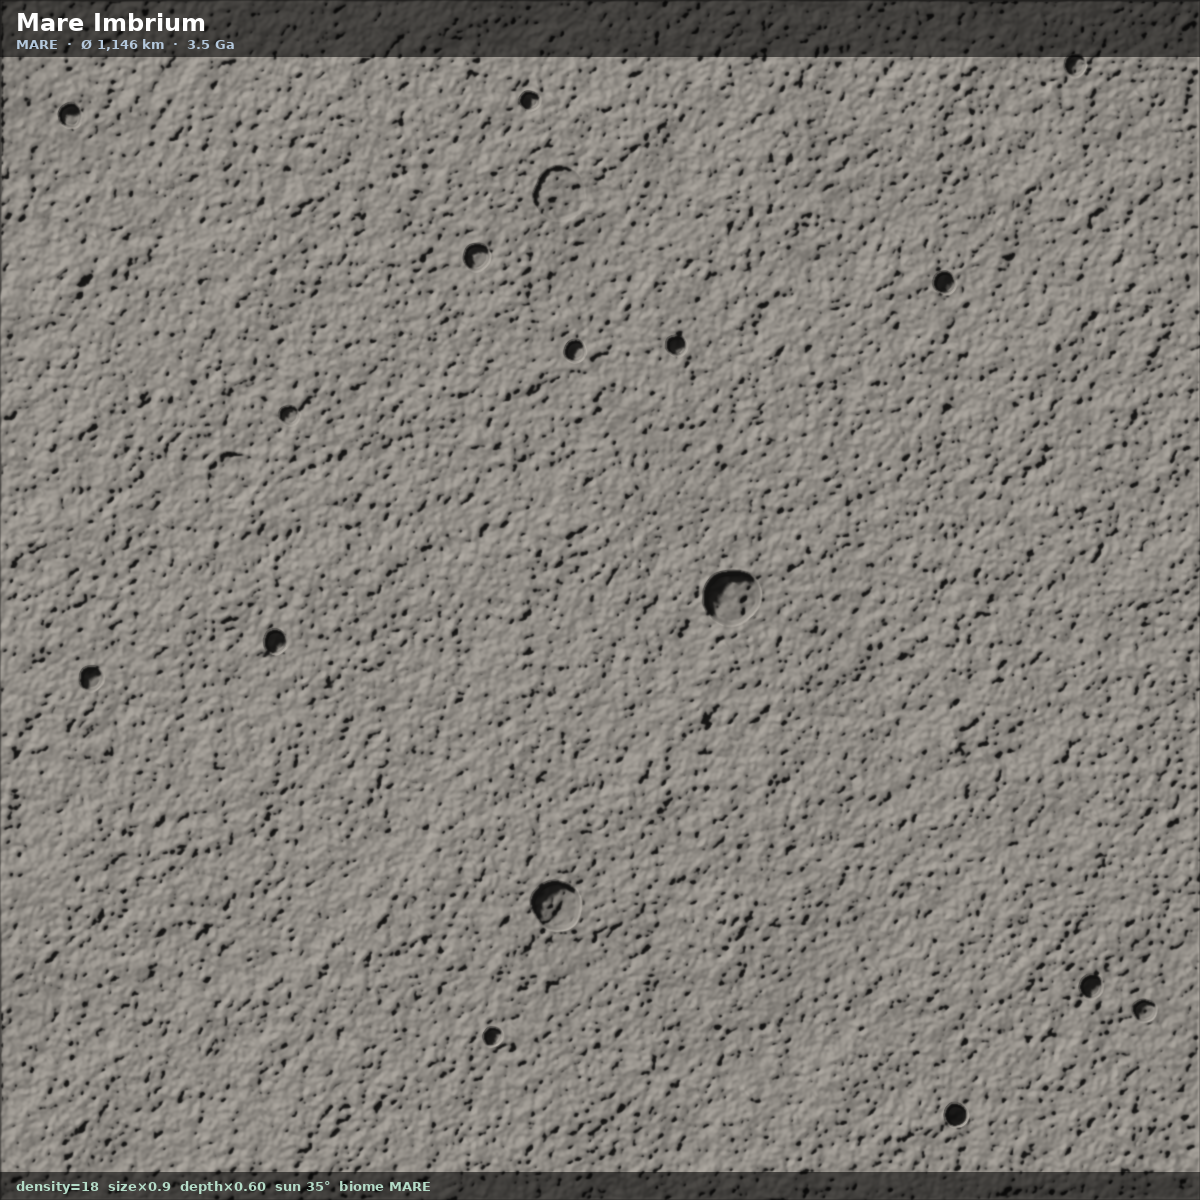
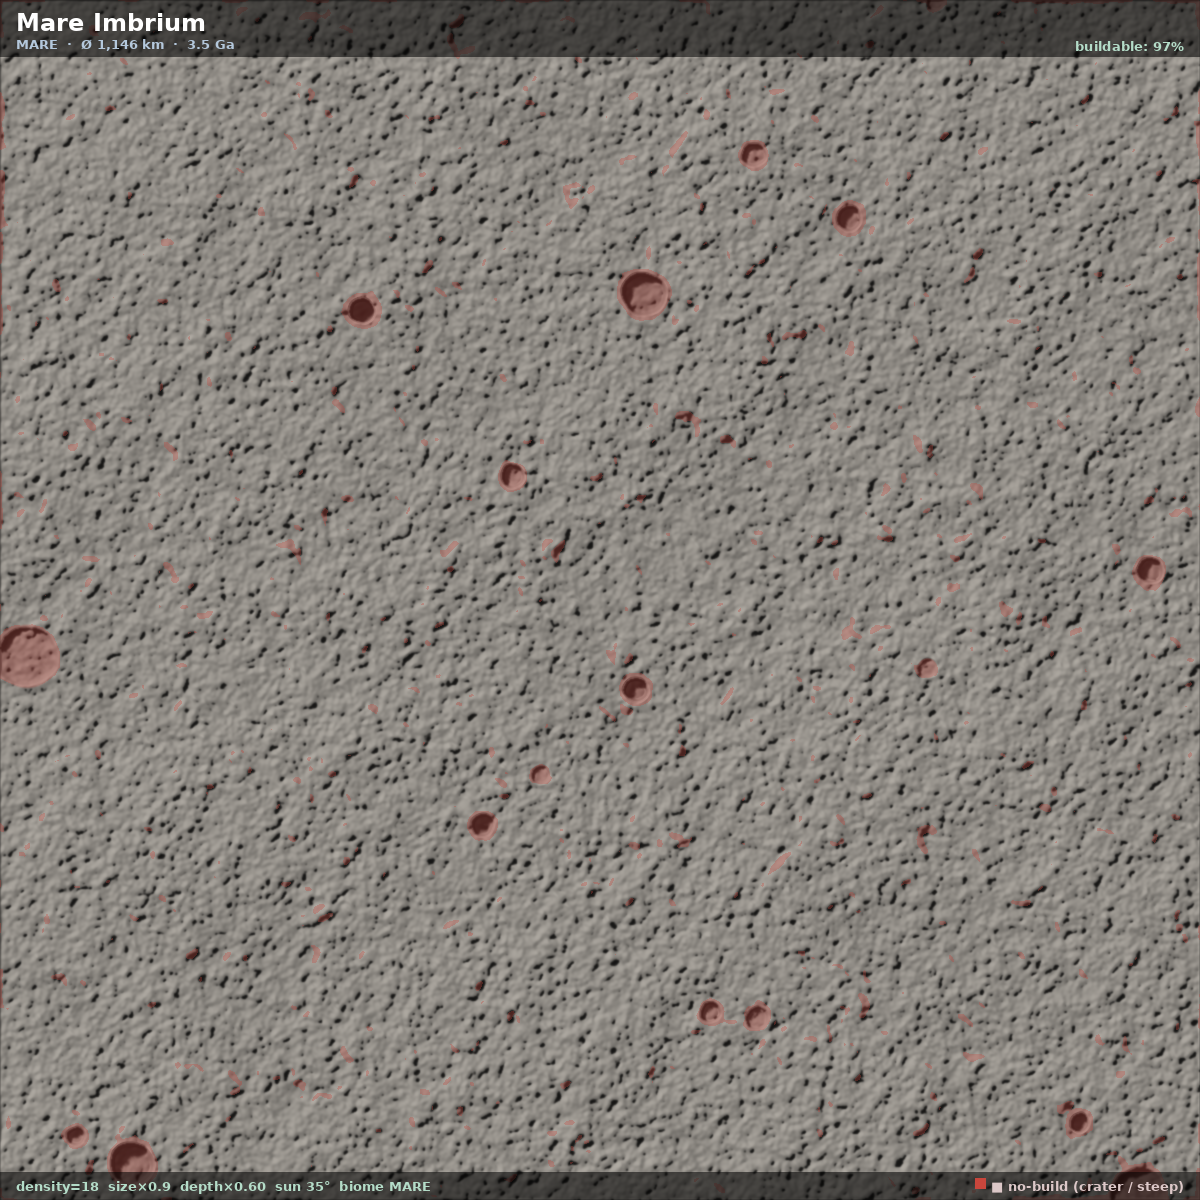
phase B+: buildability mask (no building in craters)
User constraint: lunar bases can't be placed inside crater interiors.

Adds buildability_mask() to regional_view.py:

  * Crater interior exclusion: any pixel within rim_factor=1.05 × r
    of any crater is unbuildable. Soft 10% falloff at the rim so
    the boundary isn't a hard step.
  * Slope cutoff: the heightmap is Gaussian-blurred (sigma=3.5) to
    measure terrain-scale slope, then any slope > 18° is unbuildable.
    Pre-blur is critical — without it the pink-noise micro-texture
    fires the slope check on nearly every pixel and the entire
    region reads as forbidden.

Visual integration in render_regional_view:
  * overlay_unbuildable() blends a 30% warm-red tint on forbidden
    pixels — player sees at a glance where they can't build.
  * save_mask_png() exports a 1-channel grayscale PNG sibling
    (regional_<slug>_buildable.png) — the C++ side loads this as a
    texture and samples it at sect-placement time.
  * Title bar reports the buildable percentage of the region.
  * Bottom-right legend explains the red overlay.

Visible in regional_compare.png:
  * Tycho / Copernicus: ~80% buildable — central crater + small
    surrounding craters all flagged red, plain between them OK.
  * Mare Imbrium / Apollo 11: 95%+ buildable — only the few
    scattered small craters are red.
  * Shackleton: similar but with POLAR tint (very low sun) so the
    mask reads against a dark surface.
  * SPA basin: lots of small craters → noticeable red speckle.
[…]

diff --git a/prototypes/planet_visuals/regional_view.py b/prototypes/planet_visuals/regional_view.py
@@ -197,8 +197,79 @@ def params_for_zone(zone: ZoneInfo) -> RegionalParams:
 
 
 # ===========================================================================
-# Renderer
+# Buildability mask
 # ===========================================================================
+
+def buildability_mask(heightmap: np.ndarray, craters,
+                       crater_rim_factor: float = 1.05,
+                       slope_threshold_deg: float = 18.0,
+                       z_factor: float = 75.0) -> np.ndarray:
+    """1.0 = buildable, 0.0 = forbidden.
+
+    Two rules:
+      1. Inside any crater's rim (distance < `crater_rim_factor * r`)
+         is unbuildable — bowl walls + debris + sometimes permanent
+         shadow.
+      2. Anywhere the local slope exceeds `slope_threshold_deg` is
+         unbuildable — too steep for surface infrastructure. Catches
+         small unlisted craters AND any FBM-induced ridges.
+    """
+    h, w = heightmap.shape
+    mask = np.ones((h, w), dtype=np.float32)
+
+    # 1. Crater rim exclusion — vectorized per crater on a tight bbox.
+    for c in craters:
+        # bbox extends slightly past the rim for the soft falloff
+        margin = c.r * crater_rim_factor
+        x0 = max(0, int(c.cx - margin))
+        x1 = min(w, int(c.cx + margin) + 1)
+        y0 = max(0, int(c.cy - margin))
+        y1 = min(h, int(c.cy + margin) + 1)
+        yy, xx = np.mgrid[y0:y1, x0:x1].astype(np.float32)
+        d = np.sqrt((xx - c.cx) ** 2 + (yy - c.cy) ** 2)
+        # Soft inner-edge: already 1.0 outside the rim, taper to 0
+        # over the last 5% of radius.
+        inside = d < c.r * crater_rim_factor
+        # Smoothstep falloff from rim to interior over ~10% of r
+        falloff_band = max(2.0, c.r * 0.10)
+        t = np.clip((c.r * crater_rim_factor - d) / falloff_band, 0.0, 1.0)
+        local = 1.0 - t * t * (3.0 - 2.0 * t)   # smoothstep
+        mask[y0:y1, x0:x1] = np.minimum(mask[y0:y1, x0:x1],
+                                         np.where(inside, local, 1.0))
+
+    # 2. Slope cutoff — applied to a smoothed heightmap so the
+    #    pink-noise texture (sub-meter regolith roughness) doesn't
+    #    flag every pixel as steep. We want terrain-scale slopes,
+    #    not micro-texture.
+    smoothed = gaussian_blur(heightmap, 3.5)
+    dy, dx = np.gradient(smoothed * z_factor)
+    slope_rad = np.arctan(np.hypot(dx, dy))
+    slope_deg = np.degrees(slope_rad)
+    too_steep = slope_deg > slope_threshold_deg
+    mask = np.where(too_steep, 0.0, mask)
+
+    return mask
+
+
+def overlay_unbuildable(rgb: np.ndarray, mask: np.ndarray,
+                         tint_strength: float = 0.30) -> np.ndarray:
+    """Blend a subtle warm-red tint over unbuildable pixels so the
+    player can see at a glance where they can't build."""
+    red = np.array([200.0, 70.0, 60.0], dtype=np.float32)
+    forbidden = (1.0 - mask)[..., None]
+    out = rgb.astype(np.float32) * (1.0 - tint_strength * forbidden) \
+          + red * tint_strength * forbidden
+    return np.clip(out, 0, 255).astype(np.uint8)
+
+
+def save_mask_png(mask: np.ndarray, path: str):
+    """Save a 1-channel buildability mask PNG (white = buildable,
+    black = forbidden) for the C++ side to load."""
+    arr = np.clip(mask * 255, 0, 255).astype(np.uint8)
+    Image.fromarray(arr, mode="L").save(path)
+
+
+
 
 def _make_central_crater(p: RegionalParams, region_px: int) -> Crater | None:
     if p.central_crater_radius_frac is None:
@@ -296,14 +367,25 @@ def render_regional_view(zone: ZoneInfo, output_path: str,
     rgb, _ = colourise(h_with, np.zeros_like(height), sh, arch_pix, rng,
                         cast_mask=cast, albedo_height=height)
 
-    img = Image.fromarray(rgb).convert("RGB")
-    _annotate(img, zone, p)
+    # Buildability mask: forbid crater interiors + steep slopes.
+    mask = buildability_mask(h_with, craters,
+                              slope_threshold_deg=18.0)
+    rgb_with_overlay = overlay_unbuildable(rgb, mask)
+
+    # Save the mask as a sibling PNG so the C++ side can consume it
+    # directly at sect-placement time (white = ok, black = forbidden).
+    mask_path = os.path.splitext(output_path)[0] + "_buildable.png"
+    save_mask_png(mask, mask_path)
+
+    img = Image.fromarray(rgb_with_overlay).convert("RGB")
+    _annotate(img, zone, p, mask)
     img.save(output_path)
-    print(f"  wrote {output_path}")
+    print(f"  wrote {output_path}  (mask: {mask_path})")
     return img
 
 
-def _annotate(img: Image.Image, zone: ZoneInfo, p: RegionalParams):
+def _annotate(img: Image.Image, zone: ZoneInfo, p: RegionalParams,
+               mask: np.ndarray | None = None):
     """Title bar + parameter caption."""
     draw = ImageDraw.Draw(img, "RGBA")
     try:
@@ -325,6 +407,14 @@ def _annotate(img: Image.Image, zone: ZoneInfo, p: RegionalParams):
               + (f"  ·  {zone.age_ga} Ga" if zone.age_ga else ""),
               fill=(180, 200, 220), font=font_s)
 
+    # Top-right: buildable-area stat
+    if mask is not None:
+        buildable_frac = float(mask.mean())
+        stat = f"buildable: {buildable_frac * 100:.0f}%"
+        tw = draw.textlength(stat, font=font_s)
+        draw.text((img.width - tw - 16, 38), stat,
+                  fill=(180, 220, 200), font=font_s)
+
     # Bottom-left: procedural params summary
     spec = (f"density={p.count_small + p.count_med + p.count_big}  "
             f"size×{p.size_scale:.1f}  "
@@ -334,6 +424,16 @@ def _annotate(img: Image.Image, zone: ZoneInfo, p: RegionalParams):
     draw.rectangle([0, img.height - 28, img.width, img.height], fill=(0, 0, 0, 140))
     draw.text((16, img.height - 22), spec,
               fill=(180, 220, 200), font=font_s)
+
+    # Bottom-right: legend for the unbuildable overlay
+    legend = "■ no-build (crater / steep)"
+    tw = draw.textlength(legend, font=font_s)
+    # red square + label
+    draw.rectangle([img.width - tw - 32, img.height - 22,
+                     img.width - tw - 22, img.height - 12],
+                    fill=(200, 70, 60))
+    draw.text((img.width - tw - 16, img.height - 22), legend,
+              fill=(220, 200, 200), font=font_s)
 
 
 # ===========================================================================
@@ -369,8 +469,8 @@ def render_comparison():
     except OSError:
         ftitle = ImageFont.load_default()
     draw.text((20, 16),
-              "Regional View  —  procedural surfaces tuned per real zone "
-              "(replaces existing Colony view)",
+              "Regional View  —  procedural surfaces tuned per real zone, "
+              "red = no-build (crater interior or steep slope)",
               fill=(220, 220, 220), font=ftitle)
     for i, p in enumerate(panels):
         c = i % cols
